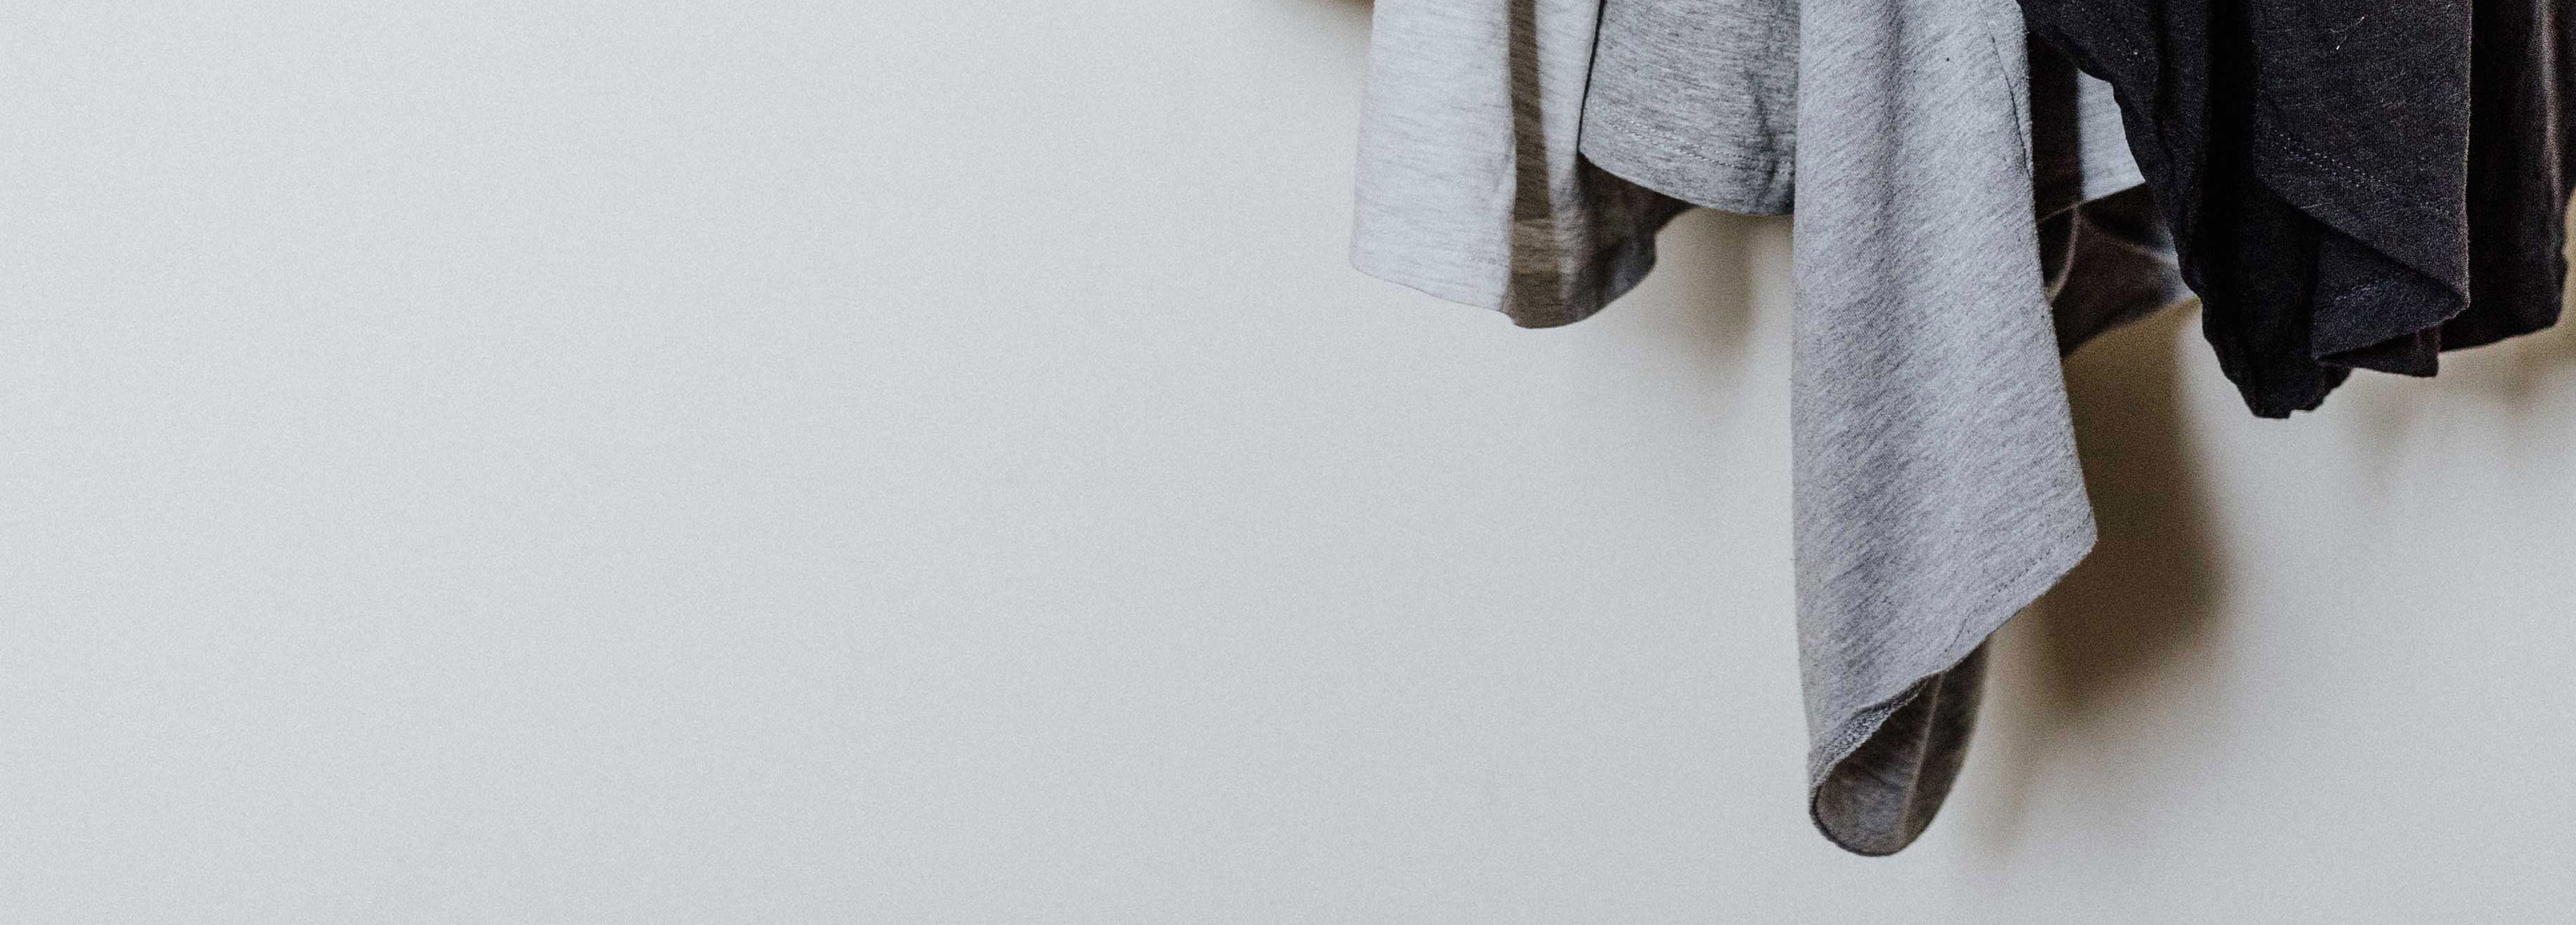
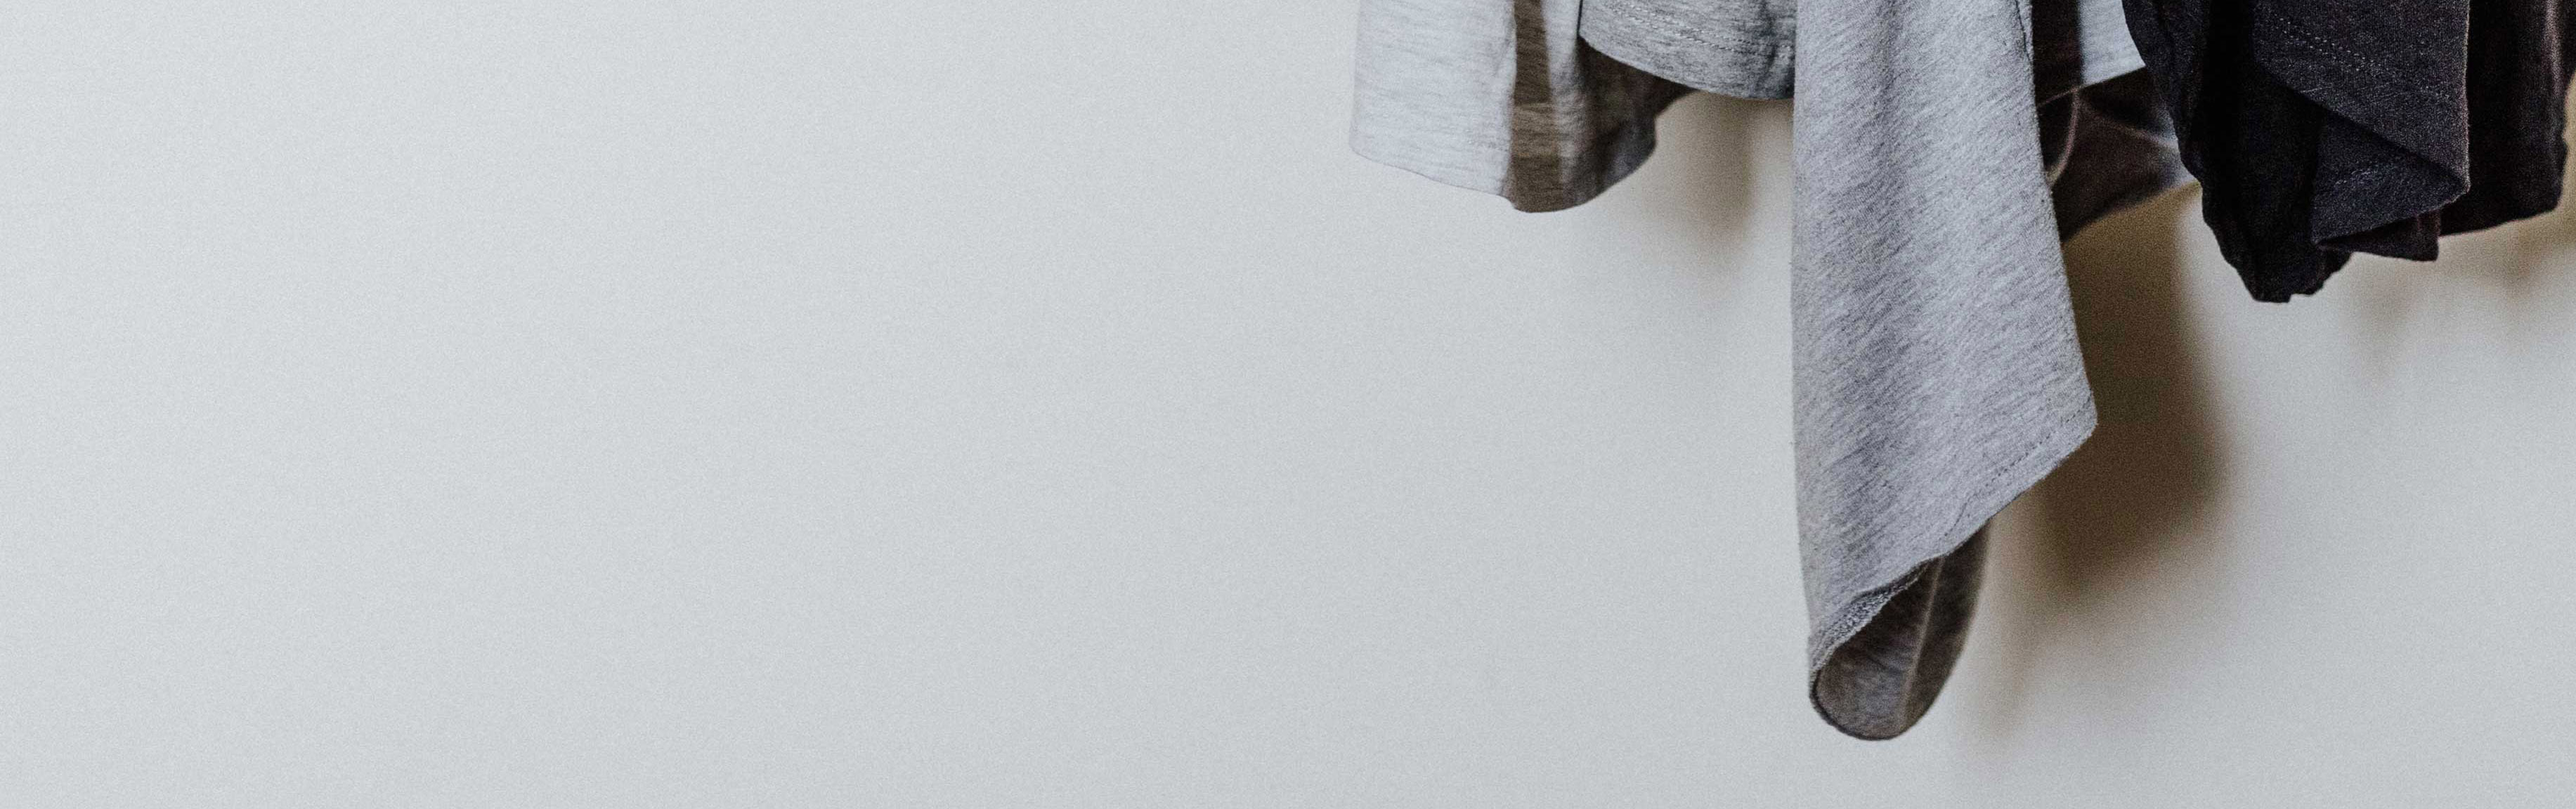
Updated colors and margins

Changed region(s): [[0.4975, 0.0, 1.0, 0.9375]]

diff --git a/css/index.css b/css/index.css
@@ -25,8 +25,7 @@
 }
 
 .img-container img {
-    width: 100%;
-    
+    width: 90%;
 }
 .hero {
     width: 100% !important;
@@ -39,7 +38,6 @@
 .first-main-title-container h1 {
     margin-top: 0 !important;
 }
-
 
 .icon-wrapper {
     justify-content: center;
@@ -63,6 +61,7 @@
     border: 1px solid #000;
     border-radius: 50%;
     background-color: #E7F3F5;
+    box-shadow: inset 0 0 3px 0;
 }
 
 .icon-container h3 {
@@ -78,11 +77,15 @@
 .button-container {
     display: flex;
     justify-content: center;
+    margin-bottom: 0 !important;
 }
 
 .cta-button {
-    background-color: #A1D192;
-    color: black;
+    padding: 1rem 4rem;
+    background: linear-gradient(rgb(27, 154, 177), #168A9E);
+    color: #FFF;
+    font-weight: 600;
+    font-size: 1.2rem;
 }
 
 

diff --git a/css/responsive.css b/css/responsive.css
@@ -3,7 +3,6 @@
 .container-fluid {
     position: relative;
     width: 100vw;
-    min-height: calc(100vh - 30vh);
 }
 
 .container {
